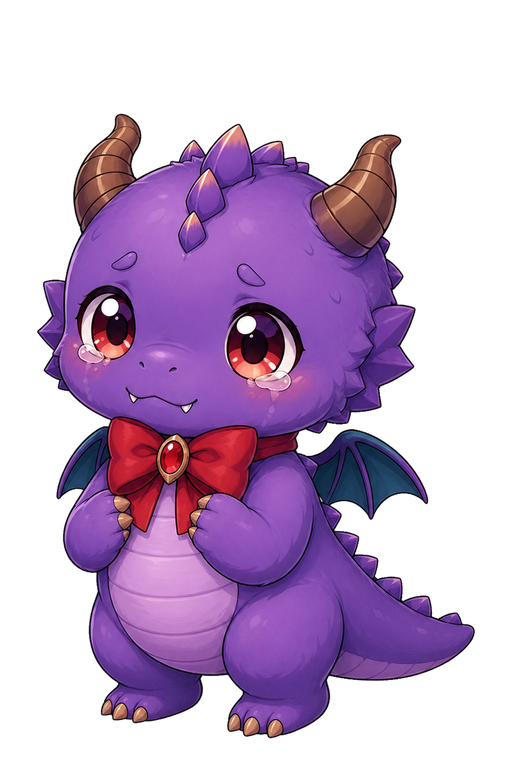
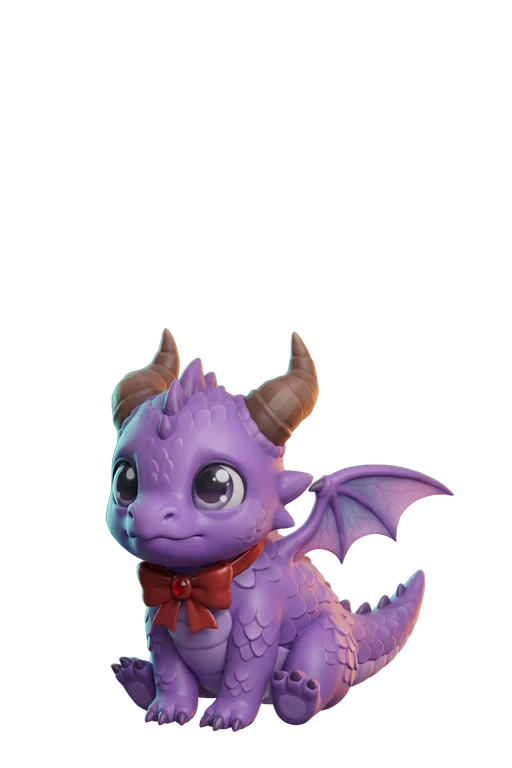
ポロを動物の子竜に刷新（立ち絵6表情・グルメレース3・散歩シート）
・ユーザー指摘「人間っぽさが前面に出て少し気持ち悪い」を受けて作り直し（決裁＝案A「おすわり」）。
  残す：紫の鱗・薄紫のお腹・茶色の巻き角・赤い蝶ネクタイ・小さな翼・泣き虫。
  変える：アニメの人間の目→動物の丸い目、チーク廃止、人の口→トカゲの口、手を組む二足→子犬のおすわり。
  画風はレース竜V2と同じ3D調。
・立ち絵：default/cry/surprise/happy/eat/sleepy を同じ座り位置・同じ倍率で差し替え（512×768透過・足元y=739）。
・グルメレース：走る/跳ぶ/転ぶ（右向き・128px）。崑崙の散歩：3×3の歩行シート（正面/背面/左向き・ドット絵調）。
・旧版は images/cast/archive_poro_v1/ へ退避。スマホのキャッシュ対策にポロ画像だけ ?v=2（散歩は ?v=poro2）。
・docs/CAST_ART_BRIEF.md §4 に新しいポロの規則（人間っぽさ禁止）と正本 job を記録。

diff --git a/js/sns.js b/js/sns.js
@@ -56,14 +56,14 @@ var SNS_IMGS = {
   "@mizu_market":    ["images/cast/stand/mizu.webp"],
   "@sumika_village": ["images/homebg/market_day.webp"],
   "@makura_live":    ["images/12_stage_seiryu-street-sunset_v2.png", "images/racebg/fire.webp"],
-  "@poro_naki":      ["images/cast/stand/poro.webp"],
+  "@poro_naki":      ["images/cast/stand/poro.webp?v=2"],
   "@shima_weather":  ["images/home_vista_day.jpg", "images/homebg/beach_day.webp"],
   "@shima_gohan":    ["images/homebg/market_day.webp"],
   "@dragon_news":    ["images/10_stage_seiryu-street-night.png"],
   "@rival_yosou":    ["images/14_stage_seiryu-street-day_v1.png"],
   "@aya_no_hibi":    ["images/homebg/balcony_night.webp"],
   "@celestia_sky":   ["images/cast/stand/celestia.webp"],
-  "@ryusha_news":    ["images/cast/stand/poro.webp", "images/home_vista_day.jpg"]
+  "@ryusha_news":    ["images/cast/stand/poro.webp?v=2", "images/home_vista_day.jpg"]
 };
 var SNS_IMG_FALLBACK = ["images/home_vista_day.jpg", "images/12_stage_seiryu-street-sunset_v2.png", "images/homebg/beach_day.webp"];
 function _snsHash(s) { var h = 0, t = String(s || ""); for (var i = 0; i < t.length; i++) { h = (h * 31 + t.charCodeAt(i)) >>> 0; } return h; }
@@ -99,7 +99,7 @@ var SNS_CAMERA_ALL = [
   { img: "images/home_vista_day.jpg", cap: "いい天気！ 竜たちもごきげん☀" },
   { img: "images/12_stage_seiryu-street-sunset_v2.png", cap: "聖龍街の夕暮れ、すきだなぁ🌇" },
   // ★BUGFIX（出会う前のキャラが出る）：発見前のカメラロールに「ポロ」の名前も立ち絵も出さない。
-  { img: "images/cast/stand/poro.webp", cap: "相棒のポロと📷 泣き虫だけど最高の子", gate: "@poroFound" },
+  { img: "images/cast/stand/poro.webp?v=2", cap: "相棒のポロと📷 泣き虫だけど最高の子", gate: "@poroFound" },
   { img: "images/homebg/market_day.webp", cap: "食べ歩き中〜🍢 なに食べよ" }
 ];
 // ui_sns.js は SNS_CAMERA を配列として直接読むので、中身を“その場で”入れ替えて同期する（snsCheckin から毎描画）。

diff --git a/js/poro.js b/js/poro.js
@@ -53,12 +53,12 @@ function dexUnlocked() {
       name: "ポロ", color: "#9a6ad0", symbol: "🥹", side: "left",
       // 紫ポロ立ち絵（ユーザー提供・512×768透過）。表情差分：default/cry/surprise。未配置時はsymbolへ。
       img: {
-        default: "images/cast/stand/poro.webp",
-        cry: "images/cast/stand/poro_cry.webp",
-        surprise: "images/cast/stand/poro_surprise.webp",
-        happy: "images/cast/stand/poro_happy.webp",     // Codex納品（CAST_ART_BRIEF §4・欠損はdefaultへFB）
-        eat: "images/cast/stand/poro_eat.webp",
-        sleepy: "images/cast/stand/poro_sleepy.webp"
+        default: "images/cast/stand/poro.webp?v=2",
+        cry: "images/cast/stand/poro_cry.webp?v=2",
+        surprise: "images/cast/stand/poro_surprise.webp?v=2",
+        happy: "images/cast/stand/poro_happy.webp?v=2",     // Codex納品（CAST_ART_BRIEF §4・欠損はdefaultへFB）
+        eat: "images/cast/stand/poro_eat.webp?v=2",
+        sleepy: "images/cast/stand/poro_sleepy.webp?v=2"
       }
     });
   }
@@ -515,7 +515,7 @@ function renderStable() {
 
 // ポロ立ち絵（webpがあれば画像、無ければ絵文字）。size=px。
 function poroStandeeHTML(size) {
-  return `<img class="poro-img" src="images/cast/stand/poro.webp" alt="ポロ" ` +
+  return `<img class="poro-img" src="images/cast/stand/poro.webp?v=2" alt="ポロ" ` +
     `style="height:${size}px" onerror="this.style.display='none';this.nextElementSibling.style.display='flex'">` +
     `<span class="poro-emoji" style="display:none;font-size:${Math.round(size * 0.7)}px">🥹</span>`;
 }

diff --git a/js/poro_gourmet.js b/js/poro_gourmet.js
@@ -54,7 +54,7 @@ const PG_ART_DIR = "images/poro_race/";
 const PG_ART = { poro: {}, food: {}, bg: [], ready: false };
 function pgLoadArt() {
   if (PG_ART._started) return; PG_ART._started = true;
-  const img = (f) => { const i = new Image(); i.src = PG_ART_DIR + f; return i; };
+  const img = (f) => { const i = new Image(); i.src = PG_ART_DIR + f + "?v=2"; return i; };   // ?v=2＝ポロ刷新（2026-09-24・動物の子竜）
   PG_ART.poro.run = img("poro_run.webp");
   PG_ART.poro.jump = img("poro_jump.webp");
   PG_ART.poro.stumble = img("poro_stumble.webp");

diff --git a/js/scene_konron.js b/js/scene_konron.js
@@ -685,7 +685,7 @@ function renderKonronWalk(areaId, at) {
     const s = KW_SIGN[d.hidden ? "❓" : d.ic];
     if (s) imgs["sg_" + s] = "images/scene/konron/props/" + s + ".webp?v=" + KW_V;
   });
-  if (typeof poroFound === "function" && poroFound()) imgs.poro = "images/scene/konron/poro_walk.webp?v=" + KW_V;
+  if (typeof poroFound === "function" && poroFound()) imgs.poro = "images/scene/konron/poro_walk.webp?v=poro2";   // ポロ刷新（2026-09-24）＝ポロだけ読み直す
 
   const scene = Scene.create({
     mount: stage,

diff --git a/docs/CAST_ART_BRIEF.md b/docs/CAST_ART_BRIEF.md
@@ -94,6 +94,15 @@
 
 ## 4. ポロ（相棒の子竜）— 優先度★（3枚）
 
+> **2026-09-24 刷新（ユーザー決裁＝案A「おすわり」）**：旧版は人間っぽさ（アニメの人間の目・頬の赤み・人の口・二足で手を組む）が
+> 前面に出て「少し気持ち悪い」と言われたため、**動物の子竜**に作り直した。以後の追加・差し替えは必ずこの規則で：
+> - 残す識別点：紫の鱗＋薄紫のお腹／茶色の巻き角／赤い蝶ネクタイ（赤い宝石つき）／小さなコウモリ翼／短い尾／泣き虫（目元が潤む・涙）。
+> - 動物にする：丸く艶のある**動物の目**（黒い瞳＋ハイライト1つ・まつ毛/まぶたの線/眉なし）、短い爬虫類の鼻先、トカゲの口（人の唇・人の歯なし）、
+>   **チーク禁止**、前足は爪つきの足（人の手・手を組むポーズ禁止）、子犬のように**おすわり**が基本姿勢。
+> - 画風：レース竜V2と同じ3D調（`images/dragons/poro.png` と並べて同じ竜に見えること）。
+> - 正本＝Higgsfield job `adc30bdc-ebf0-48f5-91e8-adc64184b427`（nano_banana_pro・参照はV2レース竜ポロ）。表情差分はこの job を参照して i2i。
+> - 旧版は `images/cast/archive_poro_v1/`（立ち絵6・グルメレース3・散歩シート）。
+
 - **参照（必ず開く）**: `images/cast/stand/poro.webp` / `poro_cry.webp` / `poro_surprise.webp`
 - **配置先**: `images/cast/stand/`。丸くて小さい泣き虫の子竜。
 
